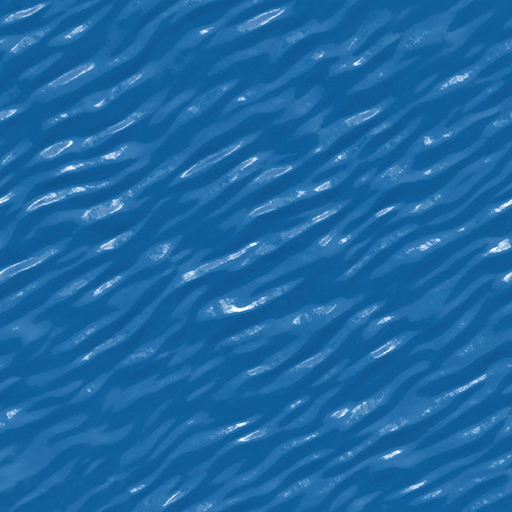
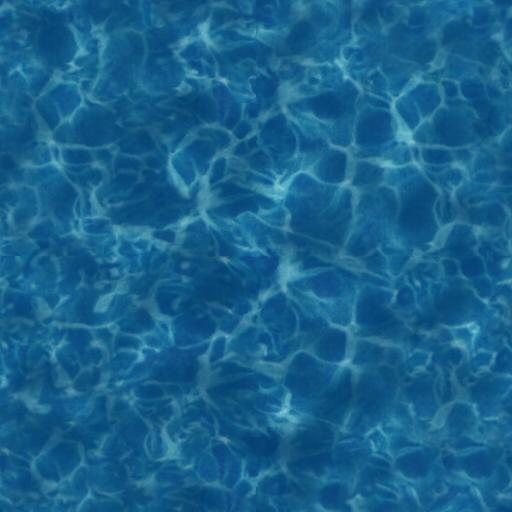
texture heights decided blending wonky

diff --git a/SFML_BASIC/main.cpp b/SFML_BASIC/main.cpp
@@ -38,8 +38,10 @@ int main()
 	bool wireframe = true;
 
 	sf::Texture sea; //texture object called car
+	sf::Texture sand; //texture object called car
 	sf::Texture grass; //texture object called car
 	sf::Texture rock; //texture object called car
+	sf::Texture snowrock; //texture object called car
 
 	
 	glTexParameteri(GL_TEXTURE_2D, GL_TEXTURE_MAG_FILTER, GL_LINEAR);
@@ -50,8 +52,10 @@ int main()
 	glBlendFunc(GL_ONE, GL_ONE_MINUS_SRC_ALPHA);
 
 	sea.loadFromFile("../water.png");
+	sand.loadFromFile("../sand.png");
 	grass.loadFromFile("../grass.png");
-	rock.loadFromFile("../snowyrock.png");
+	rock.loadFromFile("../rock.png");
+	snowrock.loadFromFile("../snowyrock.png");
 
 	// create the window
 	sf::RenderWindow App(sf::VideoMode(width, height), "OpenGL", sf::Style::Default, sf::ContextSettings(24));
@@ -99,9 +103,11 @@ int main()
         exit(1);
     }
 
-	shader.setParameter("sea", sea);	
+	shader.setParameter("sea", sea);
+	shader.setParameter("sand", sand);
 	shader.setParameter("grass", grass);
 	shader.setParameter("rock", rock);
+	shader.setParameter("snowrock", snowrock);
 
 
 	//Create our Terrain
@@ -140,7 +146,7 @@ int main()
 				glMatrixMode(GL_PROJECTION);
 				glLoadIdentity();
 				
-				gluPerspective(90.f, (float)width / height, 1.f, 300.0f);//fov, aspect, zNear, zFar 
+				glFrustum(-5.0, 5.0, -5.0, 5.0, 5, 100);
 
 				// select modelview matrix and clear it out
 				glMatrixMode(GL_MODELVIEW);

diff --git a/SFML_BASIC/Terrain.h b/SFML_BASIC/Terrain.h
@@ -20,7 +20,7 @@ class Terrain
 	sf::Image image;
 	sf::Color color;
 
-	const float m_heightMultiplier = 52;
+	const float m_heightMultiplier = 40;
 	float pixelArray[100][100];
 
 	float getHeight(int x, int y);
